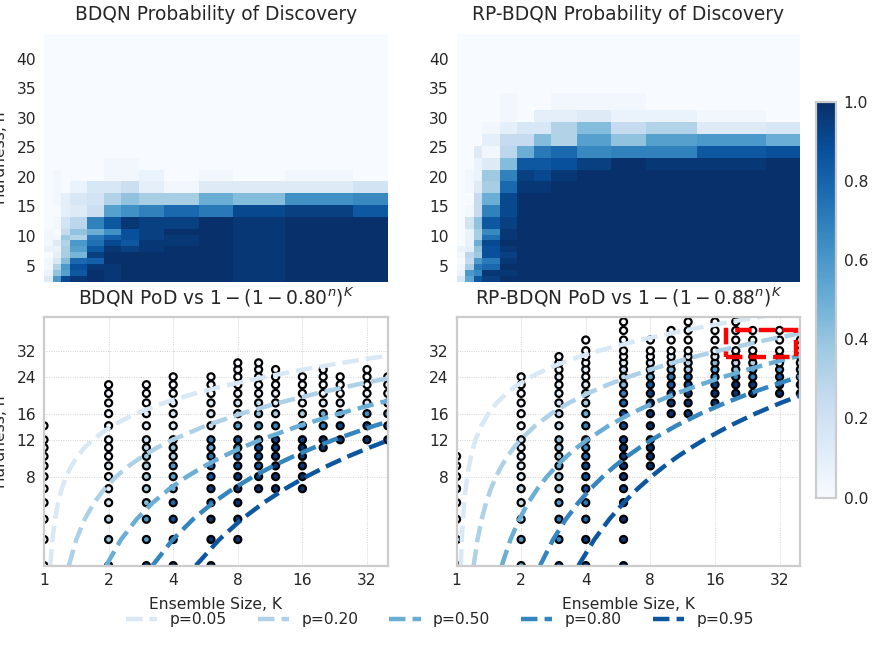
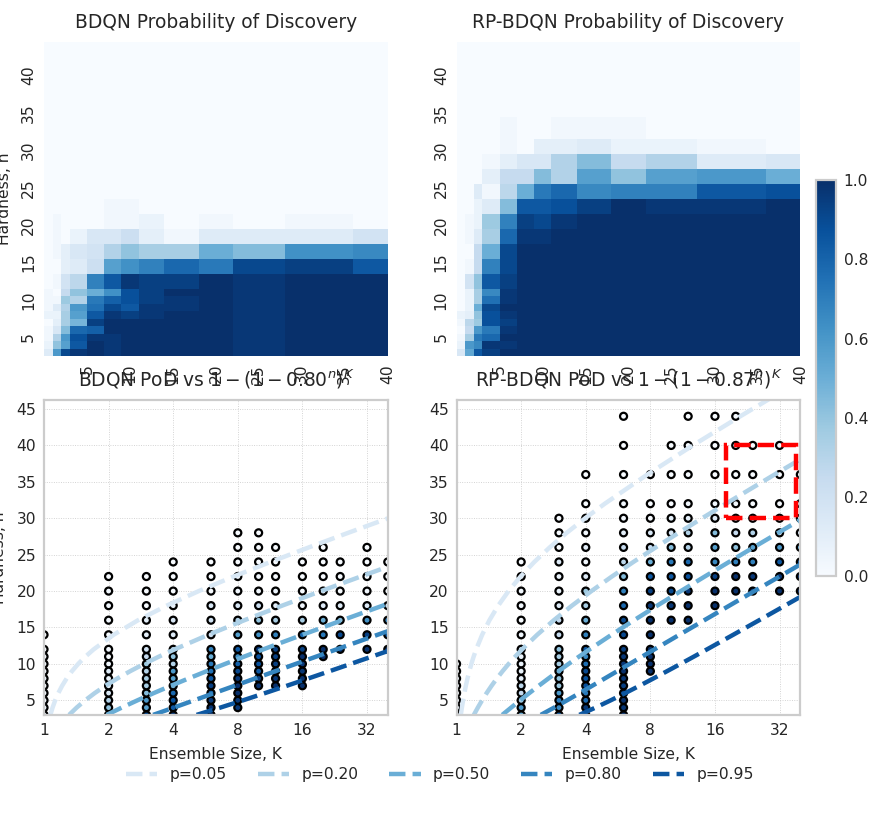
wip

diff --git a/evaluate.py b/evaluate.py
@@ -116,9 +116,9 @@ def plot_frontier_and_heatmaps(p_levels=np.array([0.05, 0.2, 0.5, 0.8, 0.95])):
     hard_min, hard_max = agg["hardness"].agg(["min", "max"])
 
     # ------------- layout: 3 × 2 gridspec -----------------------------------
-    fig = plt.figure(figsize=(5.5, 4.2), tight_layout=True)
+    fig = plt.figure(figsize=(5.5, 5.2), tight_layout=True)
     gs = gridspec.GridSpec(
-        3, 2, height_ratios=[10, 10, 1.5], left=0.05, right=0.95, top=0.95, bottom=0.05
+        3, 2, height_ratios=[10, 10, 1], left=0.05, right=0.95, top=0.95, bottom=0.05
     )
 
     ax_heat = [fig.add_subplot(gs[0, c]) for c in range(2)]
@@ -150,13 +150,16 @@ def plot_frontier_and_heatmaps(p_levels=np.array([0.05, 0.2, 0.5, 0.8, 0.95])):
         # tidy tick labels
         wanted_x = [5, 10, 15, 20, 25, 30, 35, 40]
         ax_heat[i].set_xticks(wanted_x)
+        ax_heat[i].set_xticklabels(wanted_x)
         start_h = (hard_min // 5) * 5
         wanted_y = np.arange(start_h, hard_max + 5, 5)
         have_y = [h for h in wanted_y if h in ui]
         ax_heat[i].set_yticks([np.where(ui == h)[0][0] + 0.5 for h in have_y])
         ax_heat[i].set_yticklabels(have_y)
+
         ax_heat[i].invert_yaxis()
         ax_heat[i].set_xlabel("")
+
         if i == 0:
             ax_heat[i].set_ylabel("Hardness, n")
         else:
@@ -193,11 +196,8 @@ def plot_frontier_and_heatmaps(p_levels=np.array([0.05, 0.2, 0.5, 0.8, 0.95])):
         if i == 0:
             ax_front[i].set_ylabel("Hardness, n")
         ax_front[i].set_xscale("log")
-        ax_front[i].set_yscale("log")
         ax_front[i].set_xticks([1, 2, 4, 8, 16, 32])
         ax_front[i].set_xticklabels([1, 2, 4, 8, 16, 32])
-        ax_front[i].set_yticks([8, 12, 16, 24, 32])
-        ax_front[i].set_yticklabels([8, 12, 16, 24, 32])
 
         name = "BDQN" if kind == "boot" else "RP-BDQN"
         ax_front[i].set_title(f"{name} PoD vs $1-(1-{beta:.2f}^n)^K$")
@@ -235,13 +235,16 @@ def plot_frontier_and_heatmaps(p_levels=np.array([0.05, 0.2, 0.5, 0.8, 0.95])):
 def _fit_beta(df: pd.DataFrame, kind: str):
     df = df[df["ensemble_size"] > 1]
 
-    def loss(b):
-        if b <= 0 or b >= 1:
+    def negloglike(beta):
+        if beta <= 0 or beta >= 1:
             return 1e18
-        p_hat = 1 - (1 - b ** df["hardness"]) ** df["ensemble_size"]
-        return np.mean((p_hat - df["weak_convergence"]) ** 2)
+        p = 1 - (1 - beta ** df["hardness"]) ** df["ensemble_size"]
+        p = np.clip(p, 1e-15, 1 - 1e-15)  # prevent log(0)
+        k = df["weak_convergence"] * 32  # successes out of 32 trials
+        n = 32
+        return -np.sum(k * np.log(p) + (n - k) * np.log1p(-p))
 
-    res = minimize_scalar(loss, bounds=(1e-6, 1 - 1e-6), method="bounded")
+    res = minimize_scalar(negloglike, bounds=(1e-6, 1 - 1e-6), method="bounded")
     beta = res.x
 
     # compute predicted vs observed
